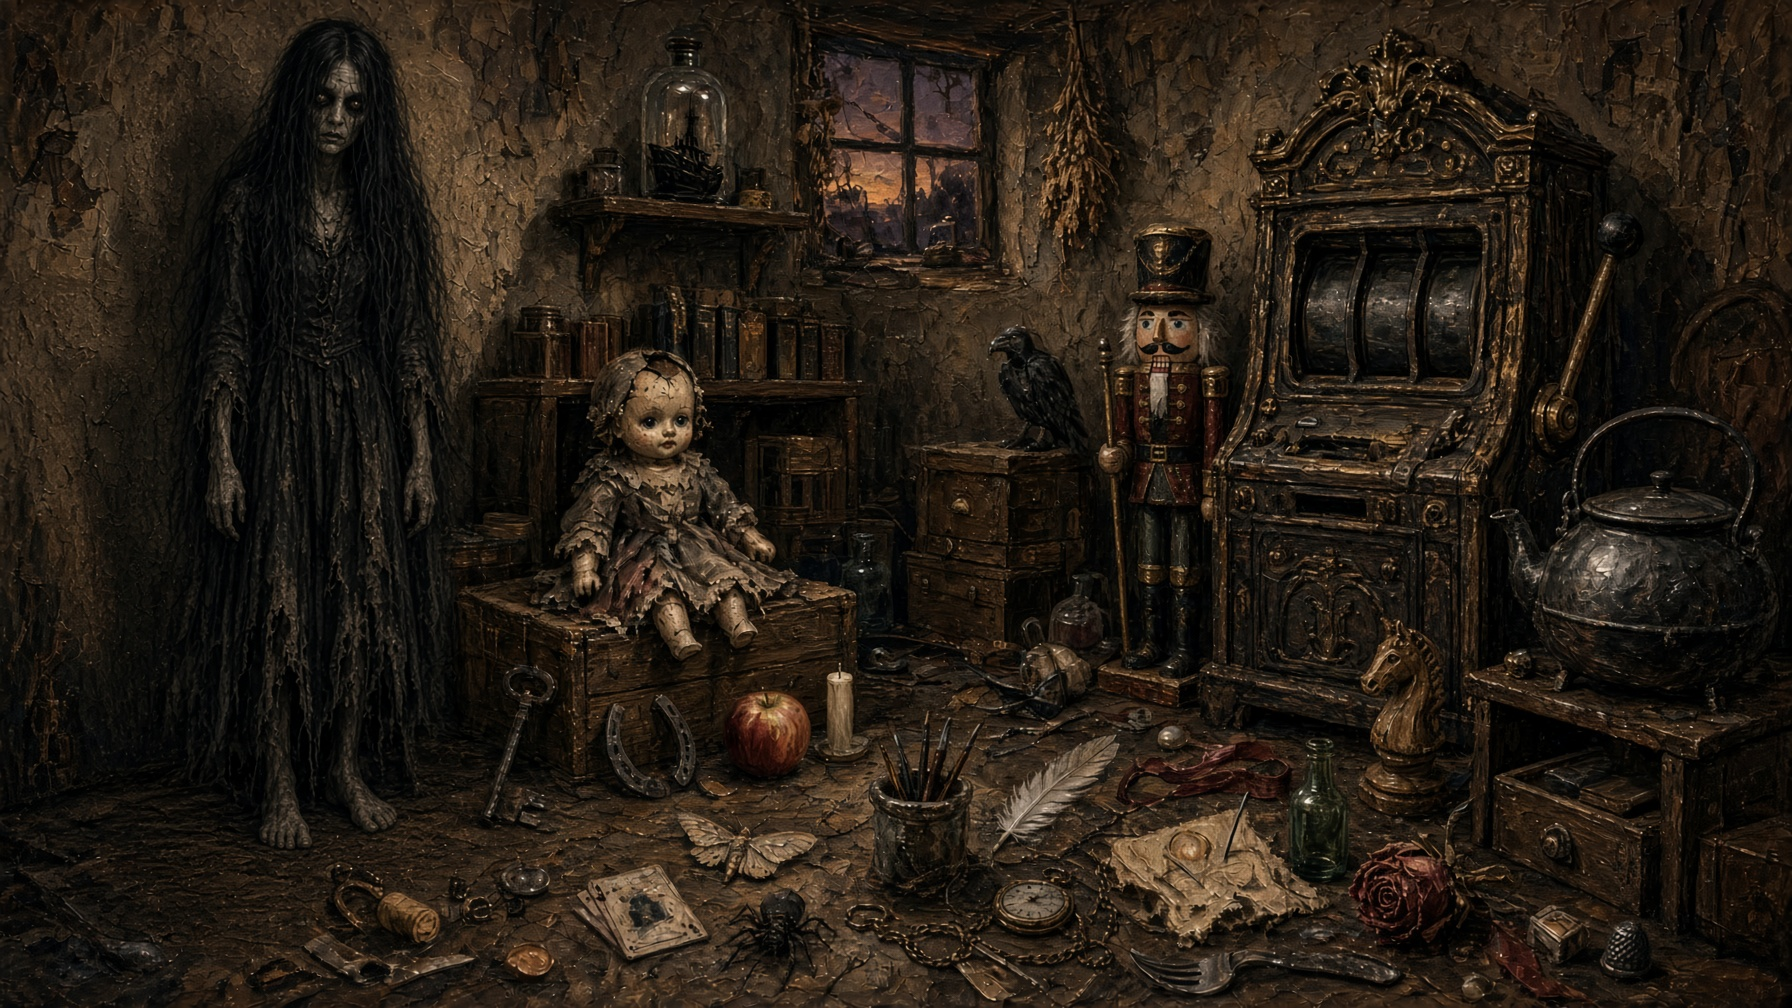
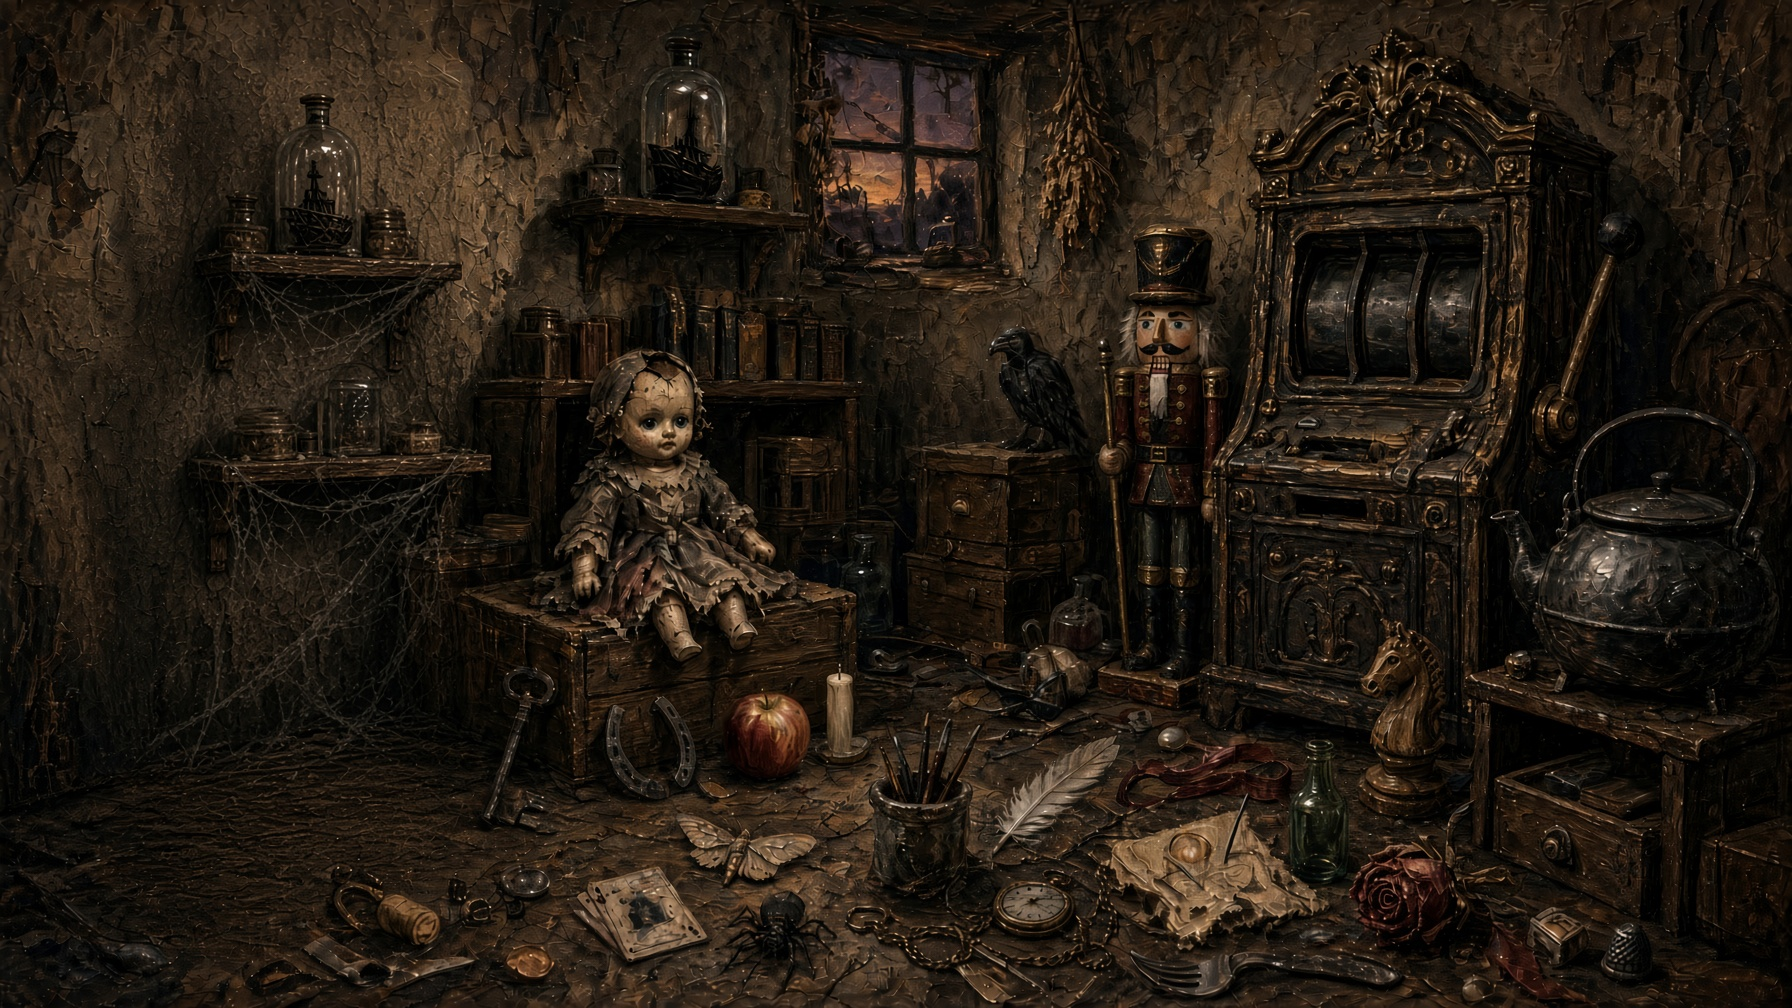
Кладовая: предметы ловятся кликом, призрак по наведению, автомат закрывается

diff --git a/src/components/manor-rooms.tsx b/src/components/manor-rooms.tsx
@@ -1,4 +1,4 @@
-import { useState } from "react";
+import { useState, type MouseEvent } from "react";
 import { toast } from "sonner";
 import { Button } from "@/components/ui/button";
 import { playRoom } from "@/lib/rooms";
@@ -7,36 +7,36 @@ import { useWallet } from "@/lib/wallet";
 type Find = { id: string; word: string; reveal: string; left: string; top: string };
 
 const FINDS: Find[] = [
-  { id: "onion", word: "Лук", reveal: "Луковица, не оружие.", left: "41%", top: "71%" },
-  { id: "key", word: "Ключ", reveal: "От двери, не гаечный.", left: "48%", top: "64%" },
-  { id: "brush", word: "Кисть", reveal: "Кисть художника, не рука.", left: "55%", top: "58%" },
-  { id: "vulture", word: "Гриф", reveal: "Птица, не гриф гитары.", left: "63%", top: "22%" },
-  { id: "shoe", word: "Подкова", reveal: "Подкова на счастье.", left: "71%", top: "28%" },
-  { id: "apple", word: "Яблоко", reveal: "Красное яблоко.", left: "78%", top: "46%" },
-  { id: "candle", word: "Свеча", reveal: "Огарок свечи.", left: "86%", top: "38%" },
-  { id: "watch", word: "Часы", reveal: "Карманные часы, не время суток.", left: "91%", top: "62%" },
-  { id: "needle", word: "Игла", reveal: "Швейная игла, не хвоя.", left: "82%", top: "72%" },
-  { id: "feather", word: "Перо", reveal: "Птичье перо, не ручка.", left: "74%", top: "68%" },
-  { id: "coin", word: "Монета", reveal: "Медная монета.", left: "66%", top: "76%" },
-  { id: "knight", word: "Конь", reveal: "Шахматный конь, не живой.", left: "58%", top: "74%" },
-  { id: "bell", word: "Колокол", reveal: "Маленький колокол.", left: "44%", top: "48%" },
-  { id: "bottle", word: "Бутылка", reveal: "Зелёное стекло.", left: "36%", top: "42%" },
-  { id: "pearl", word: "Жемчуг", reveal: "Одна жемчужина.", left: "33%", top: "68%" },
-  { id: "nail", word: "Гвоздь", reveal: "Ржавый гвоздь.", left: "93%", top: "78%" },
-  { id: "card", word: "Карта", reveal: "Игральная карта, не карта города.", left: "52%", top: "70%" },
-  { id: "spider", word: "Паук", reveal: "Паук в углу.", left: "88%", top: "14%" },
-  { id: "moth", word: "Моль", reveal: "Ночная моль, не пристань.", left: "79%", top: "16%" },
-  { id: "glove", word: "Перчатка", reveal: "Одна перчатка.", left: "61%", top: "48%" },
-  { id: "spoon", word: "Ложка", reveal: "Старая ложка.", left: "47%", top: "36%" },
-  { id: "fork", word: "Вилка", reveal: "Столовая вилка, не развилка.", left: "39%", top: "56%" },
-  { id: "cork", word: "Пробка", reveal: "Пробка от бутылки.", left: "54%", top: "32%" },
-  { id: "matches", word: "Спички", reveal: "Коробок спичек.", left: "68%", top: "18%" },
-  { id: "thimble", word: "Напёрсток", reveal: "Напёрсток у иглы.", left: "76%", top: "34%" },
-  { id: "button", word: "Пуговица", reveal: "Одна пуговица.", left: "84%", top: "56%" },
-  { id: "ribbon", word: "Лента", reveal: "Шёлковая лента, не плёнка.", left: "42%", top: "24%" },
-  { id: "rose", word: "Роза", reveal: "Сухая роза.", left: "57%", top: "42%" },
-  { id: "ship", word: "Корабль", reveal: "Кораблик в бутылке.", left: "72%", top: "12%" },
-  { id: "scythe", word: "Коса", reveal: "Коса жнеца, не волосы.", left: "28%", top: "62%" },
+  { id: "onion", word: "Лук", reveal: "Луковица, не оружие.", left: "46%", top: "66%" },
+  { id: "key", word: "Ключ", reveal: "От двери, не гаечный.", left: "54%", top: "60%" },
+  { id: "brush", word: "Кисть", reveal: "Кисть художника, не рука.", left: "38%", top: "48%" },
+  { id: "vulture", word: "Гриф", reveal: "Птица, не гриф гитары.", left: "70%", top: "24%" },
+  { id: "shoe", word: "Подкова", reveal: "Подкова на счастье.", left: "78%", top: "32%" },
+  { id: "apple", word: "Яблоко", reveal: "Красное яблоко.", left: "62%", top: "70%" },
+  { id: "candle", word: "Свеча", reveal: "Огарок свечи.", left: "74%", top: "46%" },
+  { id: "watch", word: "Часы", reveal: "Карманные часы, не время суток.", left: "86%", top: "58%" },
+  { id: "needle", word: "Игла", reveal: "Швейная игла, не хвоя.", left: "80%", top: "72%" },
+  { id: "feather", word: "Перо", reveal: "Птичье перо, не ручка.", left: "68%", top: "76%" },
+  { id: "coin", word: "Монета", reveal: "Медная монета.", left: "50%", top: "74%" },
+  { id: "knight", word: "Конь", reveal: "Шахматный конь, не живой.", left: "42%", top: "72%" },
+  { id: "bell", word: "Колокол", reveal: "Маленький колокол.", left: "34%", top: "36%" },
+  { id: "bottle", word: "Бутылка", reveal: "Зелёное стекло.", left: "30%", top: "52%" },
+  { id: "pearl", word: "Жемчуг", reveal: "Одна жемчужина.", left: "36%", top: "68%" },
+  { id: "nail", word: "Гвоздь", reveal: "Ржавый гвоздь.", left: "90%", top: "70%" },
+  { id: "card", word: "Карта", reveal: "Игральная карта, не карта города.", left: "58%", top: "46%" },
+  { id: "spider", word: "Паук", reveal: "Паук в углу.", left: "88%", top: "18%" },
+  { id: "moth", word: "Моль", reveal: "Ночная моль, не пристань.", left: "76%", top: "16%" },
+  { id: "glove", word: "Перчатка", reveal: "Одна перчатка.", left: "48%", top: "40%" },
+  { id: "spoon", word: "Ложка", reveal: "Старая ложка.", left: "40%", top: "30%" },
+  { id: "fork", word: "Вилка", reveal: "Столовая вилка, не развилка.", left: "32%", top: "44%" },
+  { id: "cork", word: "Пробка", reveal: "Пробка от бутылки.", left: "56%", top: "32%" },
+  { id: "matches", word: "Спички", reveal: "Коробок спичек.", left: "64%", top: "20%" },
+  { id: "thimble", word: "Напёрсток", reveal: "Напёрсток у иглы.", left: "72%", top: "36%" },
+  { id: "button", word: "Пуговица", reveal: "Одна пуговица.", left: "84%", top: "44%" },
+  { id: "ribbon", word: "Лента", reveal: "Шёлковая лента, не плёнка.", left: "28%", top: "28%" },
+  { id: "rose", word: "Роза", reveal: "Сухая роза.", left: "52%", top: "52%" },
+  { id: "ship", word: "Корабль", reveal: "Кораблик в бутылке.", left: "82%", top: "22%" },
+  { id: "scythe", word: "Коса", reveal: "Коса жнеца, не волосы.", left: "88%", top: "50%" },
 ];
 
 const GLYPH: Record<string, string> = { dust: "·", note: "♪", moon: "☾", skull: "☠", frame: "▣" };
@@ -66,12 +66,36 @@ export function HuntRoom({ onClose }: { onClose: () => void }) {
   const [spinning, setSpinning] = useState(false);
   const [slotLine, setSlotLine] = useState("2 ноты");
   const [slot, setSlot] = useState(false);
+  const [ghost, setGhost] = useState(false);
   const done = found.length === round.length;
   const left = round.filter((item) => !found.includes(item.id));
 
   function tap(id: string, reveal: string) {
     setLine(reveal);
     setFound((cur) => (cur.includes(id) ? cur : [...cur, id]));
+  }
+
+  function aim(event: MouseEvent<HTMLDivElement>) {
+    const mark = event.target as HTMLElement;
+    if (mark.closest("[data-ui]")) return;
+    const box = event.currentTarget.getBoundingClientRect();
+    const x = ((event.clientX - box.left) / box.width) * 100;
+    const y = ((event.clientY - box.top) / box.height) * 100;
+    let best: Find | null = null;
+    let bestD = 8;
+    for (const item of round) {
+      if (found.includes(item.id)) continue;
+      const d = Math.hypot(x - parseFloat(item.left), y - parseFloat(item.top));
+      if (d < bestD) {
+        best = item;
+        bestD = d;
+      }
+    }
+    if (!best) {
+      setLine("Мимо.");
+      return;
+    }
+    tap(best.id, best.reveal);
   }
 
   function spin() {
@@ -106,61 +130,90 @@ export function HuntRoom({ onClose }: { onClose: () => void }) {
         className="absolute inset-x-0 flex items-center justify-center [container-type:size]"
         style={{ top: "2.4rem", bottom: "6.4rem" }}
       >
-        <div className="relative" style={{ aspectRatio: "16 / 9", width: "min(100cqw, calc(100cqh * 16 / 9))" }}>
+        <div
+          className="relative"
+          style={{ aspectRatio: "16 / 9", width: "min(100cqw, calc(100cqh * 16 / 9))" }}
+          onClick={aim}
+        >
           <img src="/rooms/hunt.jpg" alt="Кладовая" className="absolute inset-0 h-full w-full object-fill" />
+          <img
+            src="/rooms/ghost.jpg"
+            alt=""
+            className={`pointer-events-none absolute mix-blend-screen transition-opacity duration-300 ${ghost ? "opacity-100" : "opacity-0"}`}
+            style={{ left: "0%", top: "8%", width: "28%", height: "84%", objectFit: "contain" }}
+          />
           <button
             type="button"
+            data-ui
+            aria-label="Тёмная стена"
+            className="absolute cursor-default"
+            style={{ left: "0%", top: "16%", width: "22%", height: "62%" }}
+            onMouseEnter={() => setGhost(true)}
+            onMouseLeave={() => setGhost(false)}
+            onPointerDown={(event) => {
+              if (event.pointerType !== "mouse") setGhost(true);
+            }}
+            onPointerUp={(event) => {
+              if (event.pointerType !== "mouse") setGhost(false);
+            }}
+            onClick={(event) => event.stopPropagation()}
+          />
+          <button
+            type="button"
+            data-ui
             aria-label="Картина"
-            className="absolute cursor-default overflow-hidden rounded-sm opacity-80 shadow-md"
+            className="absolute cursor-default overflow-hidden rounded-sm opacity-90 shadow-md"
             style={{ left: "58%", top: "4%", width: "11%", height: "16%" }}
-            onClick={() => setSlot(true)}
+            onClick={(event) => {
+              event.stopPropagation();
+              setSlot(true);
+            }}
           >
             <img src="/rooms/cowboy.jpg" alt="" className="h-full w-full object-cover" />
           </button>
-          {round.map((item) => {
-            if (found.includes(item.id)) return null;
-            return (
-              <button
-                key={item.id}
-                type="button"
-                aria-label={item.word}
-                className="absolute cursor-default"
-                style={{ left: item.left, top: item.top, width: "4.2%", height: "8%" }}
-                onClick={() => tap(item.id, item.reveal)}
-              >
-                <img
-                  src={`/rooms/items/${item.id}.png`}
-                  alt=""
-                  className="h-full w-full object-contain opacity-80 mix-blend-multiply"
-                />
-              </button>
-            );
-          })}
           {slot ? (
-            <div
-              className="absolute z-10 flex flex-col items-center rounded-md border border-[#8a7044] bg-[#1a120c]/95 px-2 py-2 text-[#f4e4c4]"
-              style={{ left: "28%", top: "36%", width: "44%" }}
-            >
-              <p className="text-[10px] tracking-widest text-[#c4a574]">СЛОМАН</p>
-              <div className="mt-1 flex w-full gap-1">
-                {reels.map((symbol, index) => (
-                  <div
-                    key={index}
-                    className="flex h-10 flex-1 items-center justify-center rounded-sm border border-[#3a2a18] bg-black font-display text-xl"
-                  >
-                    {GLYPH[symbol] || "·"}
-                  </div>
-                ))}
-              </div>
+            <>
               <button
                 type="button"
-                disabled={spinning}
-                className="mt-2 w-full rounded-sm bg-[#6b2a22] px-2 py-1 text-[11px] text-[#f4e4c4] disabled:opacity-60"
-                onClick={spin}
+                data-ui
+                aria-label="Закрыть автомат"
+                className="absolute inset-0 z-10 cursor-default"
+                onClick={(event) => {
+                  event.stopPropagation();
+                  setSlot(false);
+                }}
+              />
+              <div
+                data-ui
+                className="absolute z-20 flex flex-col items-center rounded-md border border-[#8a7044] bg-[#1a120c]/95 px-2 py-2 text-[#f4e4c4]"
+                style={{ left: "28%", top: "36%", width: "44%" }}
               >
-                {spinning ? "крутится" : `рычаг · ${slotLine}`}
-              </button>
-            </div>
+                <div className="flex w-full items-center justify-between">
+                  <p className="text-[10px] tracking-widest text-[#c4a574]">СЛОМАН</p>
+                  <button type="button" className="text-[11px] underline" onClick={() => setSlot(false)}>
+                    закрыть
+                  </button>
+                </div>
+                <div className="mt-1 flex w-full gap-1">
+                  {reels.map((symbol, index) => (
+                    <div
+                      key={index}
+                      className="flex h-10 flex-1 items-center justify-center rounded-sm border border-[#3a2a18] bg-black font-display text-xl"
+                    >
+                      {GLYPH[symbol] || "·"}
+                    </div>
+                  ))}
+                </div>
+                <button
+                  type="button"
+                  disabled={spinning}
+                  className="mt-2 w-full rounded-sm bg-[#6b2a22] px-2 py-1 text-[11px] text-[#f4e4c4] disabled:opacity-60"
+                  onClick={spin}
+                >
+                  {spinning ? "крутится" : `рычаг · ${slotLine}`}
+                </button>
+              </div>
+            </>
           ) : null}
         </div>
       </div>
